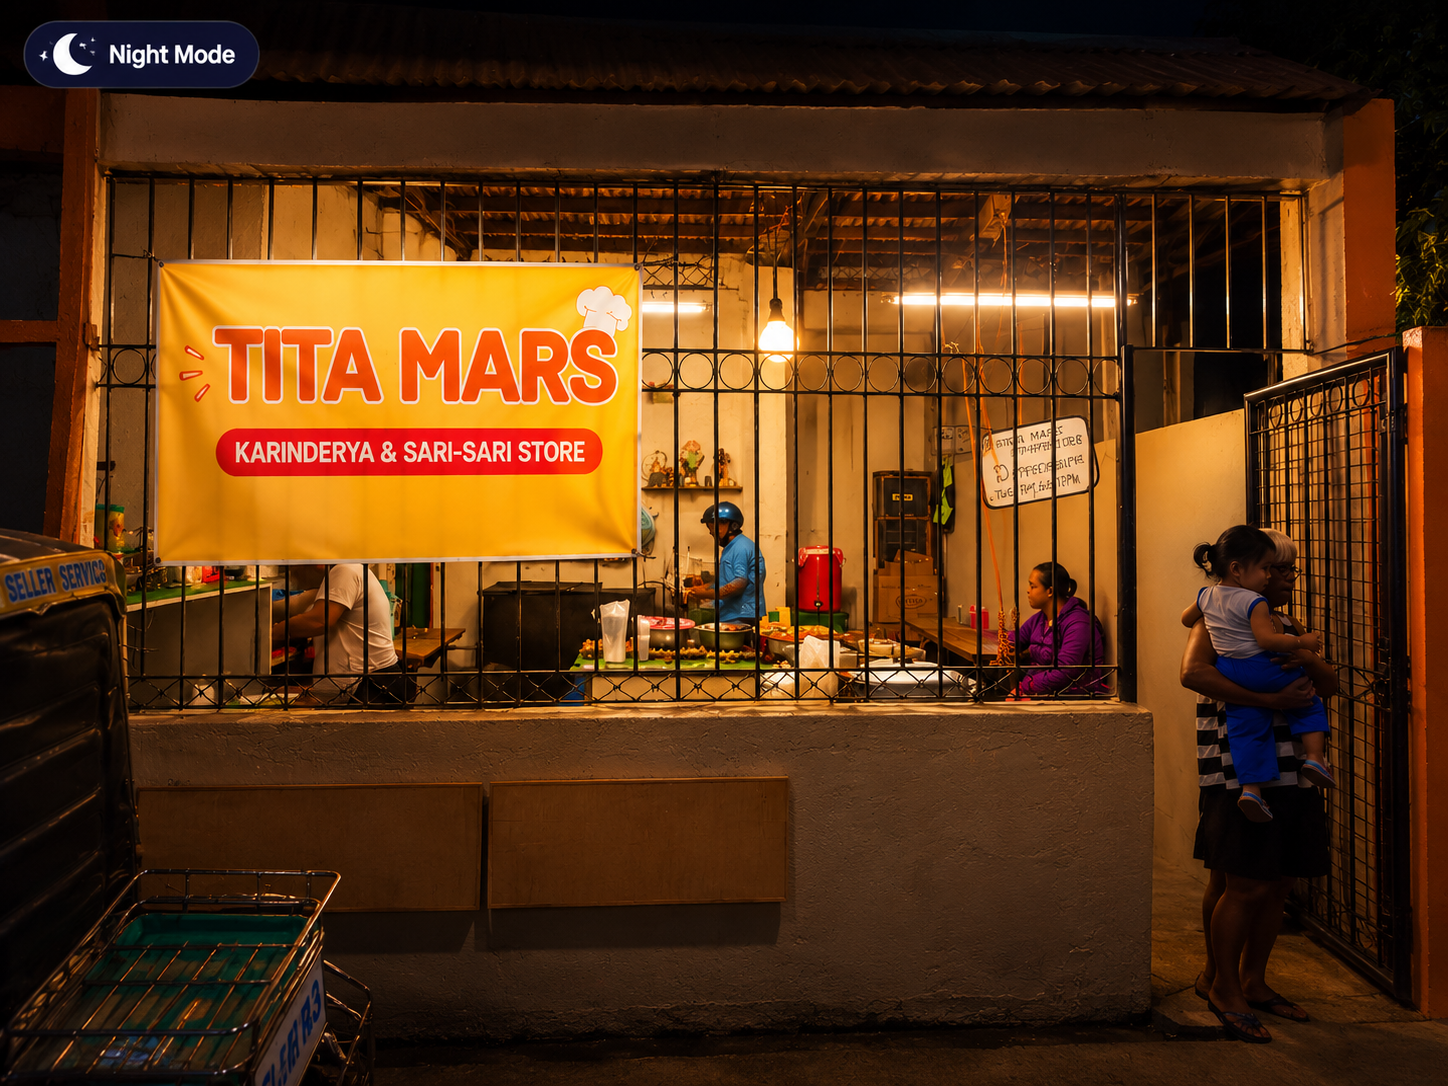
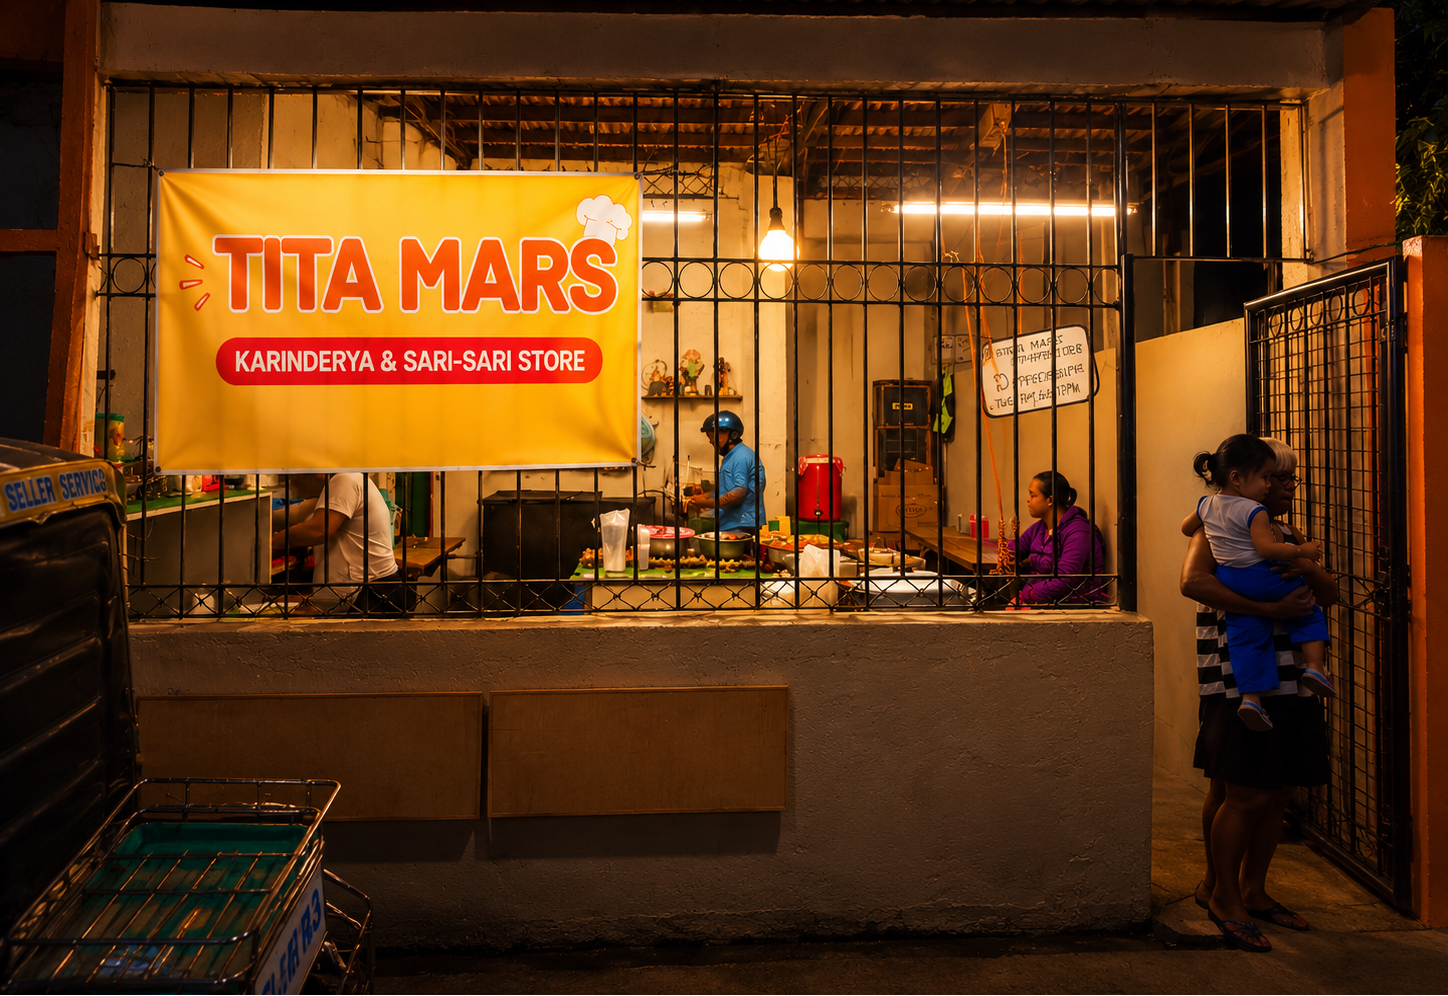
Update About page storefront photo

diff --git a/src/components/AboutPage.jsx b/src/components/AboutPage.jsx
@@ -59,7 +59,7 @@ export default function AboutPage() {
               alt="The Tita Mars Karinderya and Sari-Sari Store at night"
               loading="lazy"
             />
-            <figcaption>Our Tita Mars store in Brgy. San Isidro</figcaption>
+            <figcaption>Our Tita Mars store in Taytay, Rizal</figcaption>
           </figure>
           <h2>Visit Tita Mars</h2>
           <p>
